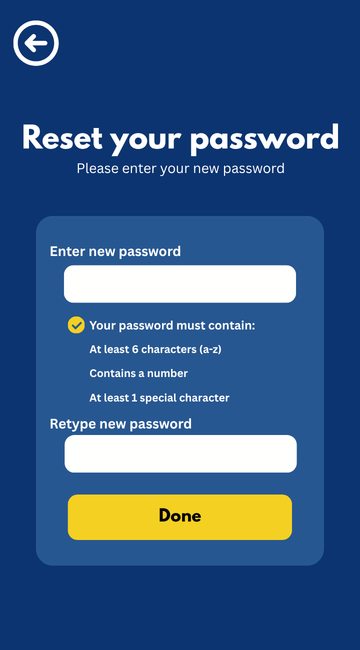
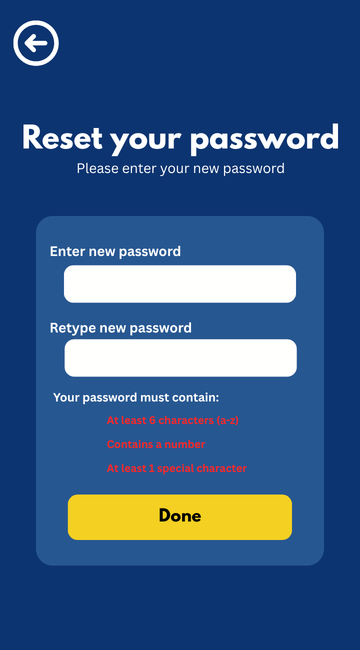
feat: Enhance CustomerResetPass form with password validation and UI adjustments

Changed region(s): [[0.1222, 0.4615, 0.825, 0.7385]]

diff --git a/src/main/java/com/mycompany/barkbites/CustomerForms/CustomerResetPass.java b/src/main/java/com/mycompany/barkbites/CustomerForms/CustomerResetPass.java
@@ -1,10 +1,111 @@
 package com.mycompany.barkbites.CustomerForms;
 
+import com.mycompany.barkbites.FormNavigator;
+import java.awt.Color;
+import javax.swing.JOptionPane;
+
 public class CustomerResetPass extends javax.swing.JFrame {
 
     public CustomerResetPass() {
         initComponents();
+        configureForm();
         this.setResizable(false);
+    }
+
+    private void configureForm() {
+        sendToBack(jLabel1);
+
+        bringToFront(jTextField1);
+        bringToFront(jTextField2);
+        bringToFront(jButton1);
+        bringToFront(jButton2);
+
+        makeTextFieldTransparent(jTextField1);
+        makeTextFieldTransparent(jTextField2);
+        jTextField1.setText("");
+        jTextField2.setText("");
+        jTextField1.setEditable(true);
+        jTextField2.setEditable(true);
+        jTextField1.setEnabled(true);
+        jTextField2.setEnabled(true);
+        makeButtonInvisible(jButton1);
+        makeButtonInvisible(jButton2);
+
+        jButton1.addActionListener(e -> FormNavigator.redirect(this, new CustomerCheckPhone()));
+        jButton2.addActionListener(e -> submitNewPassword());
+    }
+
+    private void bringToFront(java.awt.Component component) {
+        if (component == null) {
+            return;
+        }
+        getContentPane().setComponentZOrder(component, 0);
+    }
+
+    private void sendToBack(java.awt.Component component) {
+        if (component == null) {
+            return;
+        }
+        getContentPane().setComponentZOrder(component, getContentPane().getComponentCount() - 1);
+    }
+
+    private static void makeButtonInvisible(javax.swing.JButton button) {
+        if (button == null) {
+            return;
+        }
+        button.setText("");
+        button.setBorderPainted(false);
+        button.setContentAreaFilled(false);
+        button.setFocusPainted(false);
+        button.setOpaque(false);
+    }
+
+    private static void makeTextFieldTransparent(javax.swing.JTextField field) {
+        if (field == null) {
+            return;
+        }
+        field.setOpaque(false);
+        field.setBackground(new Color(0, 0, 0, 0));
+        field.setBorder(null);
+        field.setCaretColor(field.getForeground());
+    }
+
+    private void submitNewPassword() {
+        String password = jTextField1.getText() != null ? jTextField1.getText().trim() : "";
+        String confirmPassword = jTextField2.getText() != null ? jTextField2.getText().trim() : "";
+
+        if (password.isEmpty() || confirmPassword.isEmpty()) {
+            JOptionPane.showMessageDialog(this, "Please fill in both password fields.", "Missing password", JOptionPane.WARNING_MESSAGE);
+            jTextField1.requestFocusInWindow();
+            return;
+        }
+
+        if (password.length() < 6) {
+            JOptionPane.showMessageDialog(this, "Password must be at least 6 characters.", "Weak password", JOptionPane.WARNING_MESSAGE);
+            jTextField1.requestFocusInWindow();
+            return;
+        }
+
+        if (!password.matches(".*\\d.*")) {
+            JOptionPane.showMessageDialog(this, "Password must contain at least one number.", "Weak password", JOptionPane.WARNING_MESSAGE);
+            jTextField1.requestFocusInWindow();
+            return;
+        }
+
+        if (!password.matches(".*[^A-Za-z0-9].*")) {
+            JOptionPane.showMessageDialog(this, "Password must contain at least one special character.", "Weak password", JOptionPane.WARNING_MESSAGE);
+            jTextField1.requestFocusInWindow();
+            return;
+        }
+
+        if (!password.equals(confirmPassword)) {
+            JOptionPane.showMessageDialog(this, "Passwords do not match.", "Mismatch", JOptionPane.WARNING_MESSAGE);
+            jTextField2.requestFocusInWindow();
+            return;
+        }
+
+        JOptionPane.showMessageDialog(this, "Password reset successfully.", "Success", JOptionPane.INFORMATION_MESSAGE);
+        FormNavigator.redirect(this, new CustomerLoginPanel());
     }
 
     // <editor-fold defaultstate="collapsed" desc="Generated Code">//GEN-BEGIN:initComponents
@@ -29,7 +130,7 @@ public class CustomerResetPass extends javax.swing.JFrame {
         getContentPane().add(jTextField1, new org.netbeans.lib.awtextra.AbsoluteConstraints(70, 270, 220, 30));
 
         jTextField2.setText("jTextField2");
-        getContentPane().add(jTextField2, new org.netbeans.lib.awtextra.AbsoluteConstraints(70, 440, 220, 30));
+        getContentPane().add(jTextField2, new org.netbeans.lib.awtextra.AbsoluteConstraints(70, 340, 220, 40));
 
         jLabel1.setIcon(new javax.swing.ImageIcon(getClass().getResource("/com/mycompany/barkbites/CustomerDesign/CustomerResetPass.png"))); // NOI18N
         getContentPane().add(jLabel1, new org.netbeans.lib.awtextra.AbsoluteConstraints(0, 0, 360, 650));